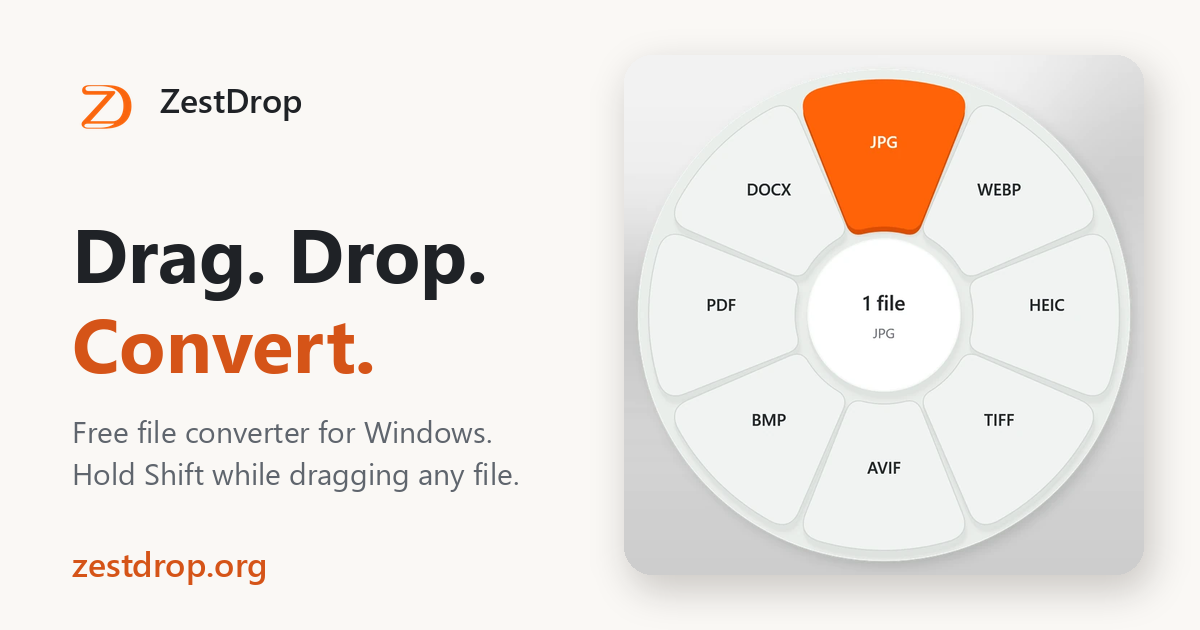
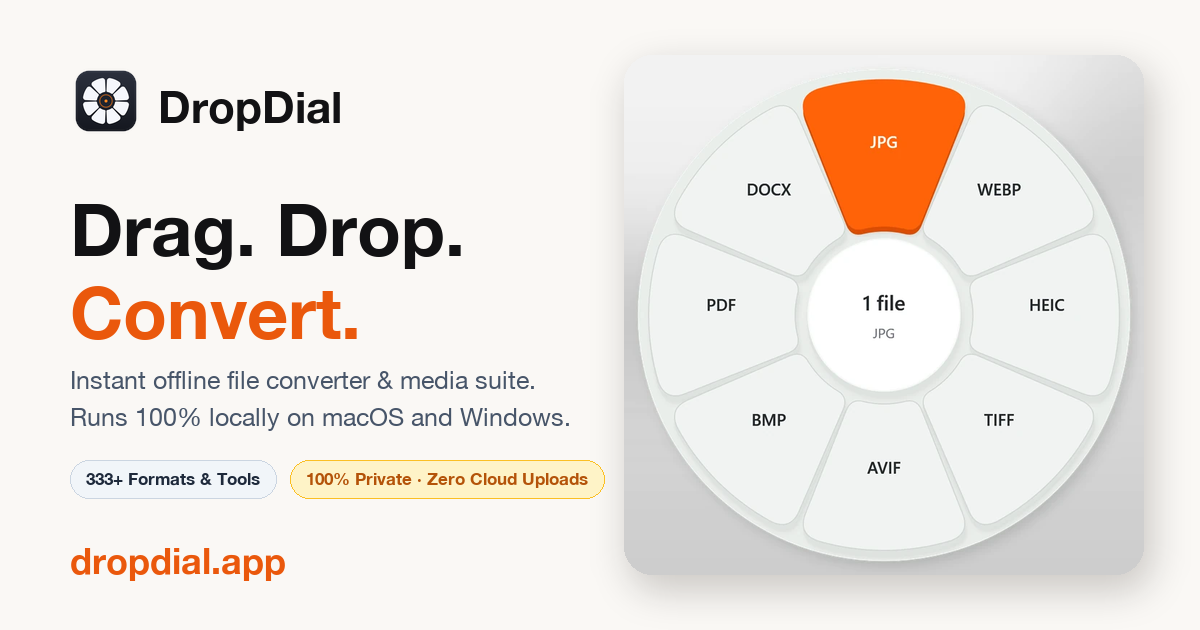
fix(brand): replace old zestdrop og-image with official DropDial social preview and bump cache buster

Changed region(s): [[0.0617, 0.3016, 0.5242, 0.8143], [0.0617, 0.0905, 0.3083, 0.2111], [0.0617, 0.8746, 0.2467, 0.9349]]

diff --git a/website/index.html b/website/index.html
@@ -63,9 +63,9 @@
 <link rel="manifest" href="/site.webmanifest">
 
 <!-- Google Search Result Image Snippet & Thumbnail Directives -->
-<meta name="thumbnail" content="https://dropdial.app/assets/img/og-image.png">
-<meta name="thumbnail" content="https://dropdial.app/assets/img/logo.png">
-<link rel="image_src" href="https://dropdial.app/assets/img/og-image.png">
+<meta name="thumbnail" content="https://dropdial.app/assets/img/og-image.png?v=5">
+<meta name="thumbnail" content="https://dropdial.app/assets/img/logo.png?v=5">
+<link rel="image_src" href="https://dropdial.app/assets/img/og-image.png?v=5">
 
 <!-- Open Graph Protocol (Facebook, LinkedIn, Discord, Slack, iMessage) -->
 <meta property="og:type" content="website">
@@ -79,8 +79,8 @@
 <meta property="og:locale:alternate" content="ja_JP">
 <meta property="og:title" content="DropDial (Drop Dial) · Drag-and-Drop Offline File Converter &amp; Media Suite">
 <meta property="og:description" content="Instant drag-and-drop file converter, media suite, and universal actions dial for macOS and Windows. 333+ conversion options, 40+ file tools, 100% offline and private.">
-<meta property="og:image" content="https://dropdial.app/assets/img/og-image.png?v=4">
-<meta property="og:image:secure_url" content="https://dropdial.app/assets/img/og-image.png?v=4">
+<meta property="og:image" content="https://dropdial.app/assets/img/og-image.png?v=5">
+<meta property="og:image:secure_url" content="https://dropdial.app/assets/img/og-image.png?v=5">
 <meta property="og:image:type" content="image/png">
 <meta property="og:image:width" content="1200">
 <meta property="og:image:height" content="630">
@@ -90,7 +90,7 @@
 <meta name="twitter:card" content="summary_large_image">
 <meta name="twitter:title" content="DropDial (Drop Dial) · Drag-and-Drop Offline File Converter &amp; Media Suite">
 <meta name="twitter:description" content="333+ offline conversion pairs, 40+ advanced file tools, and universal file actions for Mac &amp; PC. Zero cloud uploads.">
-<meta name="twitter:image" content="https://dropdial.app/assets/img/og-image.png?v=4">
+<meta name="twitter:image" content="https://dropdial.app/assets/img/og-image.png?v=5">
 <meta name="twitter:image:alt" content="DropDial (Drop Dial) File Converter &amp; Media Suite">
 
 <link rel="stylesheet" href="/assets/css/site.css?v=25">
